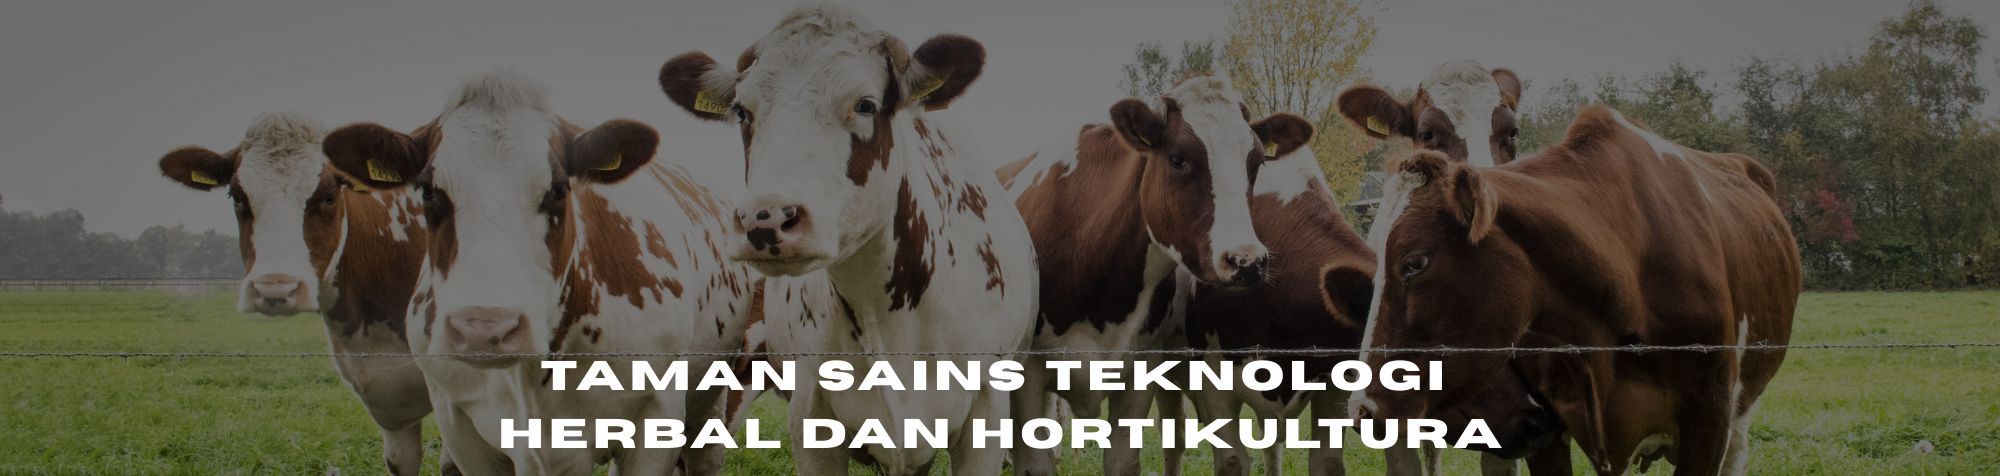
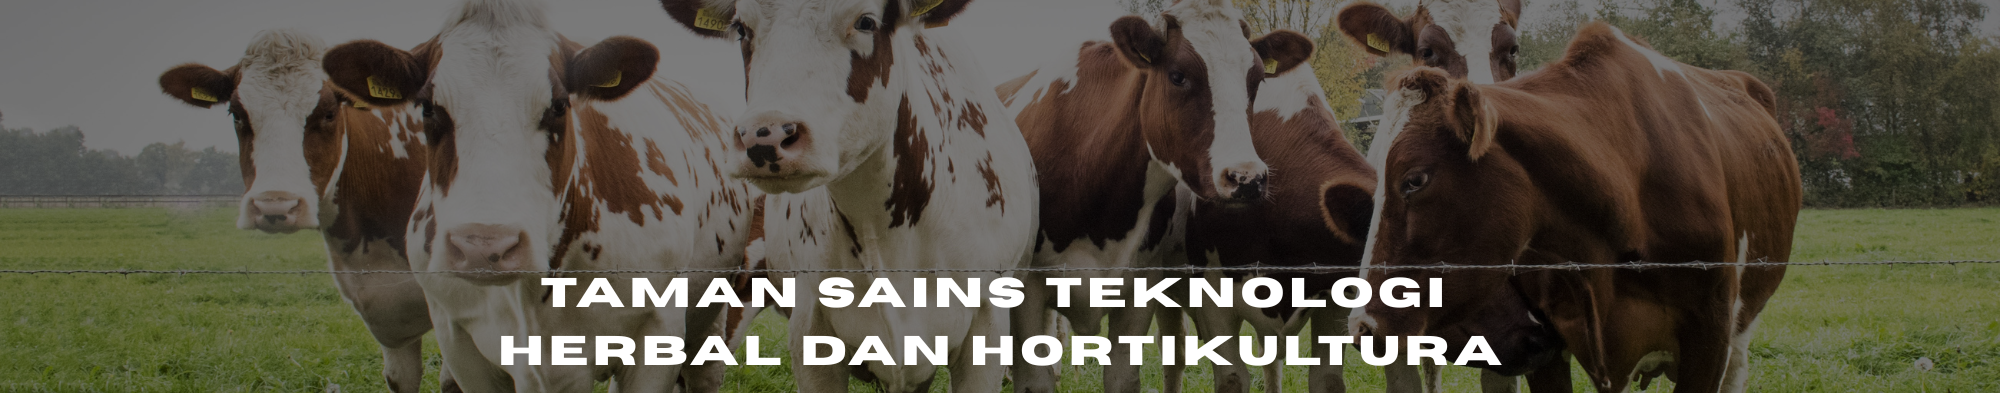
identitas3

diff --git a/dairytrack-web/src/user/pages/IdentitasPeternakanPage.js b/dairytrack-web/src/user/pages/IdentitasPeternakanPage.js
@@ -1,12 +1,13 @@
 import React from "react";
 import girolando from "../../assets/image/header1.png";
 import gambarGedung from "../../assets/image/gedung2.jpeg";
-import gambarTanaman from "../../assets/image/gedung2.jpeg"; // Import gambar tanaman
-import gambarTambahan from "../../assets/image/gedung2.jpeg"; // Import gambar tambahan
+import gambarTanaman from "../../assets/image/gedung2.jpeg";
+import gambarTambahan from "../../assets/image/gedung2.jpeg";
 
 const IdentitasPeternakanPage = () => {
   return (
     <div style={{ position: "relative" }}>
+      {/* Gambar header dengan margin top yang disesuaikan */}
       <img
         src={girolando}
         alt="Sapi Girolando"
@@ -15,7 +16,7 @@ const IdentitasPeternakanPage = () => {
           height: "auto",
           objectFit: "cover",
           objectPosition: "50% 30%",
-          marginTop: "64px",
+          marginTop: "120px", // Sesuaikan nilai ini sesuai tinggi header
         }}
       />
 
@@ -46,6 +47,7 @@ const IdentitasPeternakanPage = () => {
             ketahanan pangan dan ekonomi nasional.
           </p>
           <div style={{ marginTop: "40px" }}>
+            {/* Kotak pertama */}
             <div style={{ display: "flex", boxShadow: "0 4px 8px rgba(0, 0, 0, 0.1)", padding: "10px", borderRadius: "8px" }}>
               <img
                 src={gambarGedung}
@@ -65,12 +67,13 @@ const IdentitasPeternakanPage = () => {
                   fontSize: "0.9rem",
                 }}
               >
-                <span>
+                <span style={{ backgroundColor: "", padding: "5px", borderRadius: "5px", boxShadow: "0 2px 4px rgba(0, 0, 0, 0.1)" }}>
                   Gedung TSTH2 saat ini. Pusat penelitian dan pengembangan tanaman
                   herbal dan hortikultura.
                 </span>
               </p>
             </div>
+            {/* Kotak kedua */}
             <div style={{ display: "flex", justifyContent: "flex-end", marginTop: "20px", boxShadow: "0 4px 8px rgba(0, 0, 0, 0.1)", padding: "10px", borderRadius: "8px" }}>
               <p
                 style={{
@@ -81,9 +84,9 @@ const IdentitasPeternakanPage = () => {
                   marginRight: "20px",
                 }}
               >
-                <span>
-                  Gedung TSTH2 saat ini. Pusat penelitian dan pengembangan tanaman
-                  herbal dan hortikultura.
+                <span style={{ backgroundColor: "", padding: "5px", borderRadius: "5px", boxShadow: "0 2px 4px rgba(0, 0, 0, 0.1)" }}>
+                  Penelitian tanaman herbal dan hortikultura untuk pertanian
+                  berkelanjutan.
                 </span>
               </p>
               <img
@@ -96,8 +99,7 @@ const IdentitasPeternakanPage = () => {
                 }}
               />
             </div>
-            
-            {/* Kotak Ketiga */}
+            {/* Kotak ketiga */}
             <div style={{ display: "flex", boxShadow: "0 4px 8px rgba(0, 0, 0, 0.1)", padding: "10px", borderRadius: "8px", marginTop: "20px" }}>
               <img
                 src={gambarTambahan}
@@ -117,7 +119,7 @@ const IdentitasPeternakanPage = () => {
                   fontSize: "0.9rem",
                 }}
               >
-                <span>
+                <span style={{ backgroundColor: "", padding: "5px", borderRadius: "5px", boxShadow: "0 2px 4px rgba(0, 0, 0, 0.1)" }}>
                   Fasilitas terbaru untuk penelitian dan pengembangan lebih lanjut.
                 </span>
               </p>
